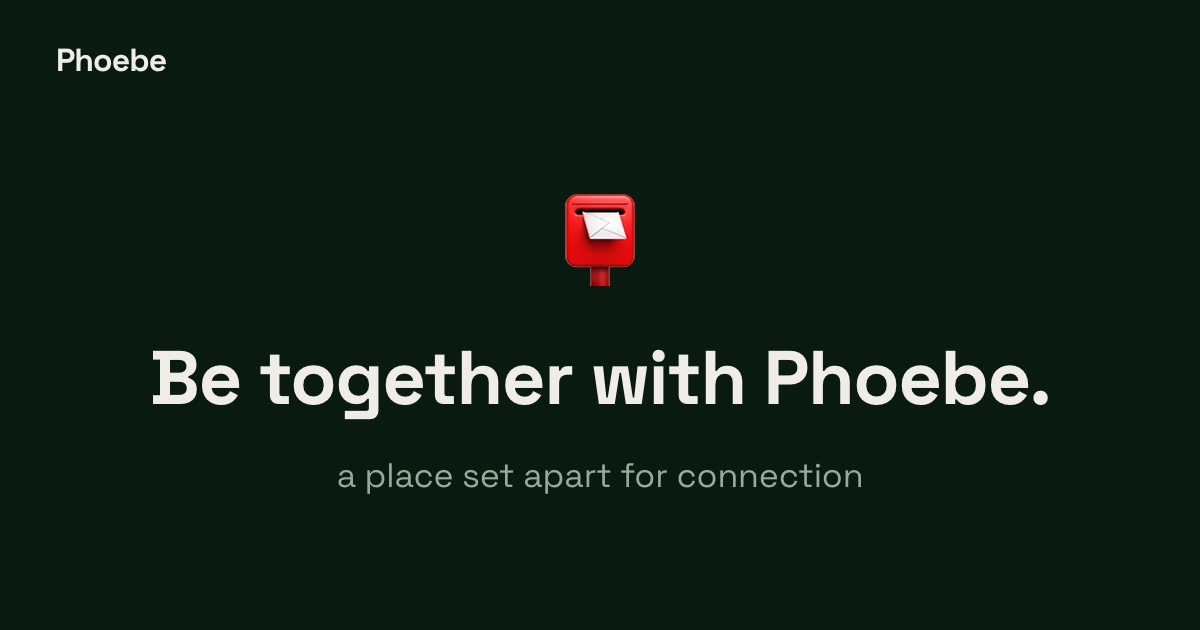
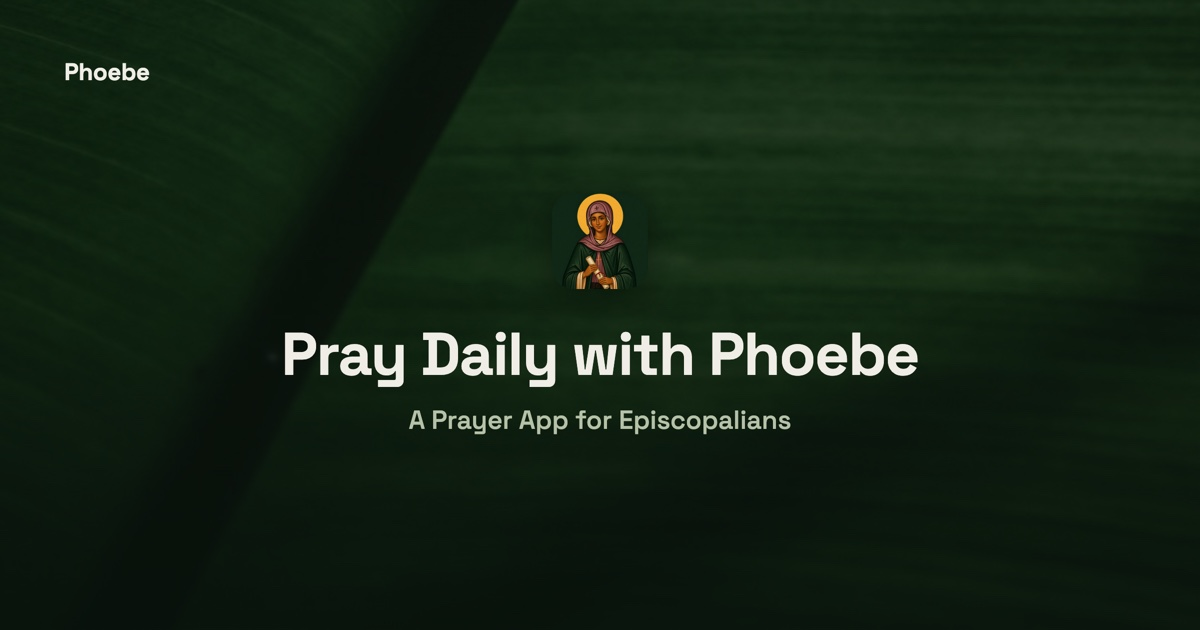
Redesign share thumbnail; frost the invite page; fix podcast bg not rotating
- opengraph.jpg: replaced the stale "Be together with Phoebe / a place set
  apart for connection" mailbox-emoji design (leftover from the removed
  Fellows/Letters-era social positioning) with the splash photo as backdrop,
  the real app icon centered where the emoji was, "Pray Daily with Phoebe"
  as the title, and "A Prayer App for Episcopalians" as the subtitle —
  matching the current og:title/description already in index.html. Rendered
  via a throwaway HTML page + Playwright (system Chrome) at the standard
  1200x630 OG size, not hand-drawn.
- invite-share.tsx: the photo backdrop was nearly invisible under a near-
  opaque wash with the copy floating directly on top (no card) after the
  gift cards were removed. Lightened the wash, raised the photo opacity,
  and wrapped the copy + Share button in the same frosted-glass panel every
  hero card in the app uses (office/Examen/Creation/Guided Prayer hero,
  WhatsNextCard) instead of leaving it bare.
- podcasts.tsx: its native-fallback background photo was hardcoded to
  LEAF_PHOTOS[0] — always the exact same picture — while every sibling page
  using the same pickWideBackground() pattern (contemplation, examen,
  guided-prayer, CobreatheSummary) already picks randomly. Matched the
  established pattern.

diff --git a/artifacts/mymonastery/src/pages/invite-share.tsx b/artifacts/mymonastery/src/pages/invite-share.tsx
@@ -73,18 +73,21 @@ export default function InviteSharePage() {
     >
       {/* Backdrop — the shared page recipe: one still leaf photo held low under
           a dark wash, on zIndex -1 inside an isolated stacking context. NEVER
-          position:fixed (iOS flash). See reference_page_backdrop_pattern. */}
+          position:fixed (iOS flash). See reference_page_backdrop_pattern.
+          Lighter wash than before (the photo was nearly invisible under it) —
+          the frosted panel below carries legibility now, not a near-opaque
+          gradient. */}
       {bgPhoto && (
         <>
           <img
             src={bgPhoto}
             alt=""
             aria-hidden
-            style={{ position: "absolute", inset: 0, width: "100%", height: "100%", objectFit: "cover", opacity: 0.2, zIndex: -1 }}
+            style={{ position: "absolute", inset: 0, width: "100%", height: "100%", objectFit: "cover", opacity: 0.34, zIndex: -1 }}
           />
           <div
             aria-hidden
-            style={{ position: "absolute", inset: 0, zIndex: -1, background: "linear-gradient(180deg, rgba(8,22,15,0.66) 0%, rgba(8,22,15,0.84) 55%, rgba(8,22,15,0.94) 100%)" }}
+            style={{ position: "absolute", inset: 0, zIndex: -1, background: "linear-gradient(180deg, rgba(8,22,15,0.5) 0%, rgba(8,22,15,0.62) 55%, rgba(8,22,15,0.78) 100%)" }}
           />
         </>
       )}
@@ -103,41 +106,48 @@ export default function InviteSharePage() {
         </button>
       </div>
 
-      <div className="flex-1 flex flex-col px-7 pb-10 max-w-md mx-auto w-full">
-        <motion.div initial={{ opacity: 0, y: 10 }} animate={{ opacity: 1, y: 0 }} transition={{ duration: 0.5, ease: [0.16, 1, 0.3, 1] }}>
-          <p className="text-[12px] uppercase tracking-[0.2em] font-semibold mt-6 mb-3" style={{ color: "rgba(240,237,230,0.7)" }}>
-            {t("invite_share.eyebrow", { defaultValue: "Invite someone" })}
-          </p>
-          <h1 className="text-[30px] font-semibold leading-tight mb-4" style={{ color: WARM }}>
-            {t("invite_share.title", { defaultValue: "Give someone a way to pray every day" })}
-          </h1>
-          <p className="text-[17px] leading-relaxed" style={{ color: WARM, fontFamily: SERIF }}>
-            {t("invite_share.lede", {
-              defaultValue:
-                "Most people who want to pray daily don't lack the desire — they lack a form to put it in. Sharing Phoebe hands someone that form: a simple, unhurried rhythm they can keep, and a way to grow into the prayer life of the church.",
-            })}
-          </p>
-        </motion.div>
-
+      <div className="flex-1 flex flex-col justify-center px-7 pb-10 max-w-md mx-auto w-full">
+        {/* Frosted panel — the same shell every hero card in the app uses
+            (office/Examen/Creation/Guided Prayer hero, WhatsNextCard): neutral
+            frosted glass + sage outline. Without it the copy sat directly on
+            the bare photo/wash with nothing to hold it. */}
         <motion.div
           initial={{ opacity: 0, y: 10 }}
           animate={{ opacity: 1, y: 0 }}
-          transition={{ duration: 0.5, ease: [0.16, 1, 0.3, 1], delay: 0.2 }}
-          className="mt-8 flex flex-col items-center"
+          transition={{ duration: 0.5, ease: [0.16, 1, 0.3, 1] }}
+          className="rounded-3xl overflow-hidden"
+          style={{ background: "rgba(9,26,16,0.42)", backdropFilter: "blur(11.34px)", WebkitBackdropFilter: "blur(11.34px)", border: "1px solid rgba(200,212,192,0.35)" }}
         >
-          <button
-            type="button"
-            onClick={handleShare}
-            className="w-full rounded-full px-8 py-4 text-[17px] font-medium tracking-wide transition-opacity hover:opacity-90 active:scale-[0.99]"
-            style={{ background: "#2D5E3F", color: WARM, border: "1px solid rgba(46,107,64,0.7)", cursor: "pointer" }}
-          >
-            {t("invite_share.share_cta", { defaultValue: "Share Phoebe" })}
-          </button>
-          <p className="text-[14px] mt-3 text-center" style={{ color: justCopied ? WARM : "rgba(240,237,230,0.6)" }}>
-            {justCopied
-              ? t("invite_share.copied", { defaultValue: "Link copied ✓" })
-              : t("invite_share.share_note", { defaultValue: "Sends a link to Phoebe. On an iPhone it opens straight to the App Store." })}
-          </p>
+          <div className="px-6 py-7">
+            <p className="text-[12px] uppercase tracking-[0.2em] font-semibold mb-3" style={{ color: "rgba(240,237,230,0.7)" }}>
+              {t("invite_share.eyebrow", { defaultValue: "Invite someone" })}
+            </p>
+            <h1 className="text-[28px] font-semibold leading-tight mb-4" style={{ color: WARM }}>
+              {t("invite_share.title", { defaultValue: "Give someone a way to pray every day" })}
+            </h1>
+            <p className="text-[16px] leading-relaxed mb-8" style={{ color: WARM, fontFamily: SERIF }}>
+              {t("invite_share.lede", {
+                defaultValue:
+                  "Most people who want to pray daily don't lack the desire — they lack a form to put it in. Sharing Phoebe hands someone that form: a simple, unhurried rhythm they can keep, and a way to grow into the prayer life of the church.",
+              })}
+            </p>
+
+            <div className="flex flex-col items-center">
+              <button
+                type="button"
+                onClick={handleShare}
+                className="w-full rounded-full px-8 py-4 text-[17px] font-medium tracking-wide transition-opacity hover:opacity-90 active:scale-[0.99]"
+                style={{ background: "#2D5E3F", color: WARM, border: "1px solid rgba(46,107,64,0.7)", cursor: "pointer" }}
+              >
+                {t("invite_share.share_cta", { defaultValue: "Share Phoebe" })}
+              </button>
+              <p className="text-[14px] mt-3 text-center" style={{ color: justCopied ? WARM : "rgba(240,237,230,0.6)" }}>
+                {justCopied
+                  ? t("invite_share.copied", { defaultValue: "Link copied ✓" })
+                  : t("invite_share.share_note", { defaultValue: "Sends a link to Phoebe. On an iPhone it opens straight to the App Store." })}
+              </p>
+            </div>
+          </div>
         </motion.div>
       </div>
     </div>

diff --git a/artifacts/mymonastery/src/pages/podcasts.tsx b/artifacts/mymonastery/src/pages/podcasts.tsx
@@ -303,7 +303,7 @@ export default function PodcastsPage() {
   // Wide landscape backdrop on the web; the bundled leaf photo on native.
   // Pick ONCE per mount (rotates to a fresh Wide photo each visit) — without the
   // memo it re-picked a new random on every render, flickering the backdrop.
-  const podcastBg = useMemo(() => pickWideBackground() ?? (LEAF_PHOTOS.length > 0 ? LEAF_PHOTOS[0]! : null), []);
+  const podcastBg = useMemo(() => pickWideBackground() ?? (LEAF_PHOTOS.length > 0 ? LEAF_PHOTOS[Math.floor(Math.random() * LEAF_PHOTOS.length)]! : null), []);
   const [, setLocation] = useLocation();
   const { user, isLoading: authLoading } = useAuth();
   const [tab, setTab] = useState<"discover" | "listen-list">("discover");
